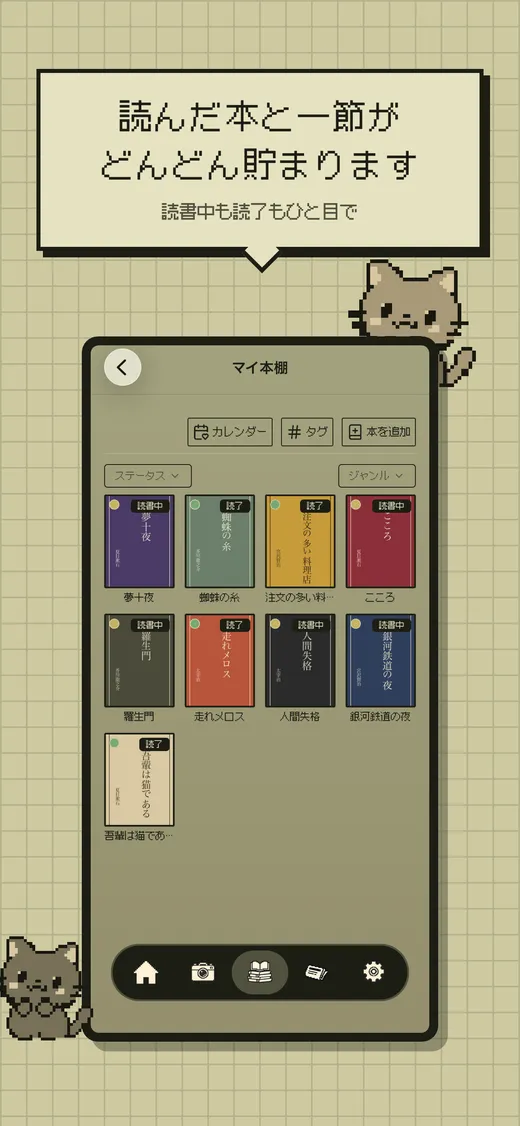
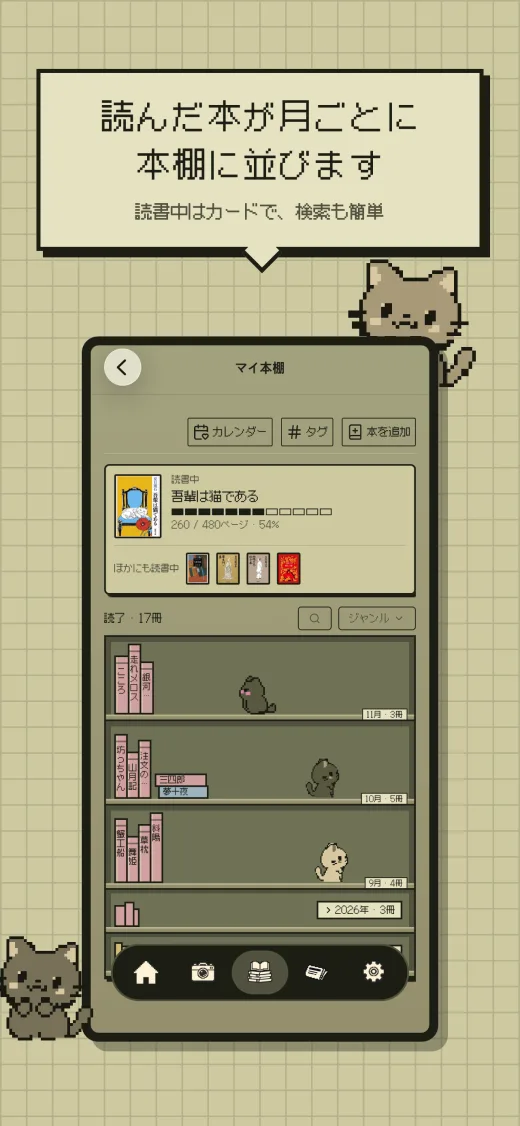
fix: 하단 저작권 표기 영문 통일, 냥냥서가 서재·도감 스크린샷 교체
- 하단 © 2026 표기를 모든 언어에서 NyangNyangBit로 통일 (build.py footer + 처리방침 4개)
- 냥냥서가 서재(새 달별 책장)·도감(프리미엄 고양이 카드) 이미지를 한·영·일 모두 교체

Changed region(s): [[0.1846, 0.4041, 0.8, 0.8703], [0.1846, 0.0622, 0.8, 0.2176], [0.4615, 0.3108, 0.5538, 0.3419]]

diff --git a/ja/nyangnyang/index.html b/ja/nyangnyang/index.html
@@ -77,7 +77,7 @@
   </div>
 </main>
 <div class="cta-bar away" aria-label="ダウンロード"><a class="btn" href="https://apps.apple.com/jp/app/id6806888734">App Store</a><a class="btn" href="https://play.google.com/store/apps/details?id=com.nyangnyangseoga.app&amp;hl=ja">Google Play</a></div>
-<footer class="foot"><span>© 2026 ニャンニャンビット</span><a href="mailto:sokurihj@gmail.com">sokurihj@gmail.com</a></footer>
+<footer class="foot"><span>© 2026 NyangNyangBit</span><a href="mailto:sokurihj@gmail.com">sokurihj@gmail.com</a></footer>
 <script src="/main.js?v=8035619c"></script>
 </body>
 </html>

diff --git a/nyangnyang/index.html b/nyangnyang/index.html
@@ -77,7 +77,7 @@
   </div>
 </main>
 <div class="cta-bar away" aria-label="받기"><a class="btn" href="https://apps.apple.com/kr/app/id6806888734">App Store</a><a class="btn" href="https://play.google.com/store/apps/details?id=com.nyangnyangseoga.app&amp;hl=ko">Google Play</a></div>
-<footer class="foot"><span>© 2026 냥냥비트</span><a href="mailto:sokurihj@gmail.com">sokurihj@gmail.com</a></footer>
+<footer class="foot"><span>© 2026 NyangNyangBit</span><a href="mailto:sokurihj@gmail.com">sokurihj@gmail.com</a></footer>
 <script src="/main.js?v=8035619c"></script>
 </body>
 </html>

diff --git a/ja/moanyang/index.html b/ja/moanyang/index.html
@@ -74,7 +74,7 @@
   </div>
 </main>
 <div class="cta-bar away" aria-label="ダウンロード"><a class="btn" href="https://apps.apple.com/jp/app/id6819154609">App Store</a><span class="pill">Google Play · 近日公開</span></div>
-<footer class="foot"><span>© 2026 ニャンニャンビット</span><a href="mailto:sokurihj@gmail.com">sokurihj@gmail.com</a></footer>
+<footer class="foot"><span>© 2026 NyangNyangBit</span><a href="mailto:sokurihj@gmail.com">sokurihj@gmail.com</a></footer>
 <script src="/main.js?v=8035619c"></script>
 </body>
 </html>

diff --git a/moanyang/index.html b/moanyang/index.html
@@ -74,7 +74,7 @@
   </div>
 </main>
 <div class="cta-bar away" aria-label="받기"><a class="btn" href="https://apps.apple.com/kr/app/id6819154609">App Store</a><span class="pill">Google Play · 곧 출시</span></div>
-<footer class="foot"><span>© 2026 냥냥비트</span><a href="mailto:sokurihj@gmail.com">sokurihj@gmail.com</a></footer>
+<footer class="foot"><span>© 2026 NyangNyangBit</span><a href="mailto:sokurihj@gmail.com">sokurihj@gmail.com</a></footer>
 <script src="/main.js?v=8035619c"></script>
 </body>
 </html>

diff --git a/ja/index.html b/ja/index.html
@@ -49,7 +49,7 @@
 <img class="sitter" src="/assets/cat.png" alt=""></div>
   </section>
 </main>
-<footer class="foot"><span>© 2026 ニャンニャンビット</span><a href="mailto:sokurihj@gmail.com">sokurihj@gmail.com</a></footer>
+<footer class="foot"><span>© 2026 NyangNyangBit</span><a href="mailto:sokurihj@gmail.com">sokurihj@gmail.com</a></footer>
 <script src="/main.js?v=8035619c"></script>
 </body>
 </html>

diff --git a/index.html b/index.html
@@ -49,7 +49,7 @@
 <img class="sitter" src="/assets/cat.png" alt=""></div>
   </section>
 </main>
-<footer class="foot"><span>© 2026 냥냥비트</span><a href="mailto:sokurihj@gmail.com">sokurihj@gmail.com</a></footer>
+<footer class="foot"><span>© 2026 NyangNyangBit</span><a href="mailto:sokurihj@gmail.com">sokurihj@gmail.com</a></footer>
 <script src="/main.js?v=8035619c"></script>
 </body>
 </html>

diff --git a/ja/nyancorder/privacy.html b/ja/nyancorder/privacy.html
@@ -162,6 +162,6 @@
 <li>2026年10月25日 Android（Google Play）版の内容を追加</li>
 </ul>
 </article>
-<footer class="foot"><span>© 2026 ニャンニャンビット</span><a href="mailto:sokurihj@gmail.com">sokurihj@gmail.com</a></footer>
+<footer class="foot"><span>© 2026 NyangNyangBit</span><a href="mailto:sokurihj@gmail.com">sokurihj@gmail.com</a></footer>
 </body>
 </html>

diff --git a/ja/about/index.html b/ja/about/index.html
@@ -64,7 +64,7 @@
     </section>
   </div>
 </main>
-<footer class="foot"><span>© 2026 ニャンニャンビット</span><a href="mailto:sokurihj@gmail.com">sokurihj@gmail.com</a></footer>
+<footer class="foot"><span>© 2026 NyangNyangBit</span><a href="mailto:sokurihj@gmail.com">sokurihj@gmail.com</a></footer>
 <script src="/main.js?v=8035619c"></script>
 </body>
 </html>

diff --git a/nyancorder/privacy.html b/nyancorder/privacy.html
@@ -179,6 +179,6 @@
 <li>2026년 10월 25일 — Android(Google Play) 앱 내용 추가</li>
 </ul>
 </article>
-<footer class="foot"><span>© 2026 냥냥비트</span><a href="mailto:sokurihj@gmail.com">sokurihj@gmail.com</a></footer>
+<footer class="foot"><span>© 2026 NyangNyangBit</span><a href="mailto:sokurihj@gmail.com">sokurihj@gmail.com</a></footer>
 </body>
 </html>

diff --git a/ja/mureonyang/index.html b/ja/mureonyang/index.html
@@ -79,7 +79,7 @@
   </div>
 </main>
 
-<footer class="foot"><span>© 2026 ニャンニャンビット</span><a href="mailto:sokurihj@gmail.com">sokurihj@gmail.com</a></footer>
+<footer class="foot"><span>© 2026 NyangNyangBit</span><a href="mailto:sokurihj@gmail.com">sokurihj@gmail.com</a></footer>
 <script src="/main.js?v=8035619c"></script>
 </body>
 </html>

diff --git a/ja/nyancorder/index.html b/ja/nyancorder/index.html
@@ -79,7 +79,7 @@
   </div>
 </main>
 
-<footer class="foot"><span>© 2026 ニャンニャンビット</span><a href="mailto:sokurihj@gmail.com">sokurihj@gmail.com</a></footer>
+<footer class="foot"><span>© 2026 NyangNyangBit</span><a href="mailto:sokurihj@gmail.com">sokurihj@gmail.com</a></footer>
 <script src="/main.js?v=8035619c"></script>
 </body>
 </html>

diff --git a/about/index.html b/about/index.html
@@ -64,7 +64,7 @@
     </section>
   </div>
 </main>
-<footer class="foot"><span>© 2026 냥냥비트</span><a href="mailto:sokurihj@gmail.com">sokurihj@gmail.com</a></footer>
+<footer class="foot"><span>© 2026 NyangNyangBit</span><a href="mailto:sokurihj@gmail.com">sokurihj@gmail.com</a></footer>
 <script src="/main.js?v=8035619c"></script>
 </body>
 </html>
